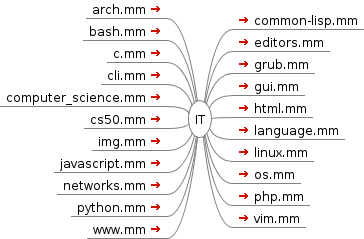
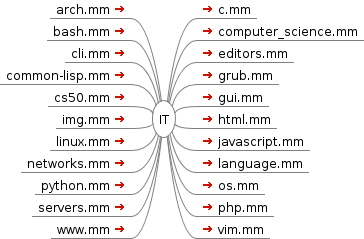
Changes to be committed: 	modified:   IT.mm 	modified:   IT.png 	deleted:    maps/servers_1569732058764680593.jpeg

Changed region(s): [[0.0, 0.0293, 1.0, 1.0]]

diff --git a/IT.mm b/IT.mm
@@ -1,26 +1,27 @@
 <map version="1.0.1">
 <!-- To view this file, download free mind mapping software FreeMind from http://freemind.sourceforge.net -->
-<node CREATED="1431365452764" ID="ID_1921554392" MODIFIED="1432326860268" TEXT="IT">
-<node CREATED="1432326860260" ID="ID_118448653" LINK="file:/home/sharlatan/Projects/my-GitHub/IT-mm/maps/arch.mm" MODIFIED="1432326860260" POSITION="right" TEXT="arch.mm"/>
-<node CREATED="1432326860263" ID="ID_1096628644" LINK="file:/home/sharlatan/Projects/my-GitHub/IT-mm/maps/bash.mm" MODIFIED="1432326860264" POSITION="left" TEXT="bash.mm"/>
-<node CREATED="1432326860265" ID="ID_1312024042" LINK="file:/home/sharlatan/Projects/my-GitHub/IT-mm/maps/c.mm" MODIFIED="1432326860265" POSITION="left" TEXT="c.mm"/>
-<node CREATED="1432326860259" ID="ID_1601374202" LINK="file:/home/sharlatan/Projects/my-GitHub/IT-mm/maps/cli.mm" MODIFIED="1432326860259" POSITION="left" TEXT="cli.mm"/>
-<node CREATED="1432326860267" ID="ID_184136111" LINK="file:/home/sharlatan/Projects/my-GitHub/IT-mm/maps/common-lisp.mm" MODIFIED="1432326860267" POSITION="right" TEXT="common-lisp.mm"/>
-<node CREATED="1432326860266" ID="ID_1641558350" LINK="file:/home/sharlatan/Projects/my-GitHub/IT-mm/maps/computer_science.mm" MODIFIED="1432326860267" POSITION="left" TEXT="computer_science.mm"/>
-<node CREATED="1432326860261" ID="ID_508653704" LINK="file:/home/sharlatan/Projects/my-GitHub/IT-mm/maps/cs50.mm" MODIFIED="1432326860262" POSITION="left" TEXT="cs50.mm"/>
-<node CREATED="1432326860255" ID="ID_878610603" LINK="file:/home/sharlatan/Projects/my-GitHub/IT-mm/maps/editors.mm" MODIFIED="1432326860255" POSITION="right" TEXT="editors.mm"/>
-<node CREATED="1432326860259" ID="ID_1307884953" LINK="file:/home/sharlatan/Projects/my-GitHub/IT-mm/maps/grub.mm" MODIFIED="1432326860260" POSITION="right" TEXT="grub.mm"/>
-<node CREATED="1432326860262" ID="ID_1319090906" LINK="file:/home/sharlatan/Projects/my-GitHub/IT-mm/maps/gui.mm" MODIFIED="1432326860263" POSITION="right" TEXT="gui.mm"/>
-<node CREATED="1432326860256" ID="ID_240702063" LINK="file:/home/sharlatan/Projects/my-GitHub/IT-mm/maps/html.mm" MODIFIED="1432326860257" POSITION="right" TEXT="html.mm"/>
-<node CREATED="1432326860254" ID="ID_1483037555" LINK="file:/home/sharlatan/Projects/my-GitHub/IT-mm/maps/img.mm" MODIFIED="1432326860254" POSITION="left" TEXT="img.mm"/>
-<node CREATED="1432326860268" ID="ID_1994476840" LINK="file:/home/sharlatan/Projects/my-GitHub/IT-mm/maps/javascript.mm" MODIFIED="1432326860268" POSITION="left" TEXT="javascript.mm"/>
-<node CREATED="1432326860251" ID="ID_249917170" LINK="file:/home/sharlatan/Projects/my-GitHub/IT-mm/maps/language.mm" MODIFIED="1432326860252" POSITION="right" TEXT="language.mm"/>
-<node CREATED="1432326860265" ID="ID_514783268" LINK="file:/home/sharlatan/Projects/my-GitHub/IT-mm/maps/linux.mm" MODIFIED="1432326860266" POSITION="right" TEXT="linux.mm"/>
-<node CREATED="1432326860252" ID="ID_663076067" LINK="file:/home/sharlatan/Projects/my-GitHub/IT-mm/maps/networks.mm" MODIFIED="1432326860253" POSITION="left" TEXT="networks.mm"/>
-<node CREATED="1432326860258" ID="ID_343139244" LINK="file:/home/sharlatan/Projects/my-GitHub/IT-mm/maps/os.mm" MODIFIED="1432326860258" POSITION="right" TEXT="os.mm"/>
-<node CREATED="1432326860261" ID="ID_99192259" LINK="file:/home/sharlatan/Projects/my-GitHub/IT-mm/maps/php.mm" MODIFIED="1432326860261" POSITION="right" TEXT="php.mm"/>
-<node CREATED="1432326860256" ID="ID_830788093" LINK="file:/home/sharlatan/Projects/my-GitHub/IT-mm/maps/python.mm" MODIFIED="1432326860256" POSITION="left" TEXT="python.mm"/>
-<node CREATED="1432326860253" ID="ID_36934171" LINK="file:/home/sharlatan/Projects/my-GitHub/IT-mm/maps/vim.mm" MODIFIED="1432326860254" POSITION="right" TEXT="vim.mm"/>
-<node CREATED="1432326860257" ID="ID_1731829696" LINK="file:/home/sharlatan/Projects/my-GitHub/IT-mm/maps/www.mm" MODIFIED="1432326860258" POSITION="left" TEXT="www.mm"/>
+<node CREATED="1431365452764" ID="ID_1921554392" MODIFIED="1432984206217" TEXT="IT">
+<node CREATED="1432984202818" ID="ID_1771984383" LINK="file:/home/sharlatan/Projects/my-GitHub/IT-mm/maps/arch.mm" MODIFIED="1432984202818" POSITION="left" TEXT="arch.mm"/>
+<node CREATED="1432984202820" ID="ID_1374868970" LINK="file:/home/sharlatan/Projects/my-GitHub/IT-mm/maps/bash.mm" MODIFIED="1432984202820" POSITION="left" TEXT="bash.mm"/>
+<node CREATED="1432984202820" ID="ID_1164265649" LINK="file:/home/sharlatan/Projects/my-GitHub/IT-mm/maps/c.mm" MODIFIED="1432984202820" POSITION="right" TEXT="c.mm"/>
+<node CREATED="1432984202817" ID="ID_1430721159" LINK="file:/home/sharlatan/Projects/my-GitHub/IT-mm/maps/cli.mm" MODIFIED="1432984202817" POSITION="left" TEXT="cli.mm"/>
+<node CREATED="1432984202822" ID="ID_360093453" LINK="file:/home/sharlatan/Projects/my-GitHub/IT-mm/maps/common-lisp.mm" MODIFIED="1432984202822" POSITION="left" TEXT="common-lisp.mm"/>
+<node CREATED="1432984202821" ID="ID_1694516761" LINK="file:/home/sharlatan/Projects/my-GitHub/IT-mm/maps/computer_science.mm" MODIFIED="1432984202821" POSITION="right" TEXT="computer_science.mm"/>
+<node CREATED="1432984202819" ID="ID_1581871177" LINK="file:/home/sharlatan/Projects/my-GitHub/IT-mm/maps/cs50.mm" MODIFIED="1432984202819" POSITION="left" TEXT="cs50.mm"/>
+<node CREATED="1432984202815" ID="ID_91635809" LINK="file:/home/sharlatan/Projects/my-GitHub/IT-mm/maps/editors.mm" MODIFIED="1432984202815" POSITION="right" TEXT="editors.mm"/>
+<node CREATED="1432984202818" ID="ID_1055593710" LINK="file:/home/sharlatan/Projects/my-GitHub/IT-mm/maps/grub.mm" MODIFIED="1432984202818" POSITION="right" TEXT="grub.mm"/>
+<node CREATED="1432984202819" ID="ID_360848724" LINK="file:/home/sharlatan/Projects/my-GitHub/IT-mm/maps/gui.mm" MODIFIED="1432984202820" POSITION="right" TEXT="gui.mm"/>
+<node CREATED="1432984202816" ID="ID_97736417" LINK="file:/home/sharlatan/Projects/my-GitHub/IT-mm/maps/html.mm" MODIFIED="1432984202816" POSITION="right" TEXT="html.mm"/>
+<node CREATED="1432984202813" ID="ID_963851632" LINK="file:/home/sharlatan/Projects/my-GitHub/IT-mm/maps/img.mm" MODIFIED="1432984202814" POSITION="left" TEXT="img.mm"/>
+<node CREATED="1432984202822" ID="ID_1804762155" LINK="file:/home/sharlatan/Projects/my-GitHub/IT-mm/maps/javascript.mm" MODIFIED="1432984202822" POSITION="right" TEXT="javascript.mm"/>
+<node CREATED="1432984202812" ID="ID_680863448" LINK="file:/home/sharlatan/Projects/my-GitHub/IT-mm/maps/language.mm" MODIFIED="1432984202812" POSITION="right" TEXT="language.mm"/>
+<node CREATED="1432984202821" ID="ID_1306270644" LINK="file:/home/sharlatan/Projects/my-GitHub/IT-mm/maps/linux.mm" MODIFIED="1432984202821" POSITION="left" TEXT="linux.mm"/>
+<node CREATED="1432984202812" ID="ID_1835028007" LINK="file:/home/sharlatan/Projects/my-GitHub/IT-mm/maps/networks.mm" MODIFIED="1432984202813" POSITION="left" TEXT="networks.mm"/>
+<node CREATED="1432984202817" ID="ID_310948593" LINK="file:/home/sharlatan/Projects/my-GitHub/IT-mm/maps/os.mm" MODIFIED="1432984202817" POSITION="right" TEXT="os.mm"/>
+<node CREATED="1432984202819" ID="ID_530903028" LINK="file:/home/sharlatan/Projects/my-GitHub/IT-mm/maps/php.mm" MODIFIED="1432984202819" POSITION="right" TEXT="php.mm"/>
+<node CREATED="1432984202815" ID="ID_88435767" LINK="file:/home/sharlatan/Projects/my-GitHub/IT-mm/maps/python.mm" MODIFIED="1432984202816" POSITION="left" TEXT="python.mm"/>
+<node CREATED="1432984202814" ID="ID_1510880599" LINK="file:/home/sharlatan/Projects/my-GitHub/IT-mm/maps/servers.mm" MODIFIED="1432984202815" POSITION="left" TEXT="servers.mm"/>
+<node CREATED="1432984202813" ID="ID_743474" LINK="file:/home/sharlatan/Projects/my-GitHub/IT-mm/maps/vim.mm" MODIFIED="1432984202813" POSITION="right" TEXT="vim.mm"/>
+<node CREATED="1432984202816" ID="ID_941724507" LINK="file:/home/sharlatan/Projects/my-GitHub/IT-mm/maps/www.mm" MODIFIED="1432984202816" POSITION="left" TEXT="www.mm"/>
 </node>
 </map>
